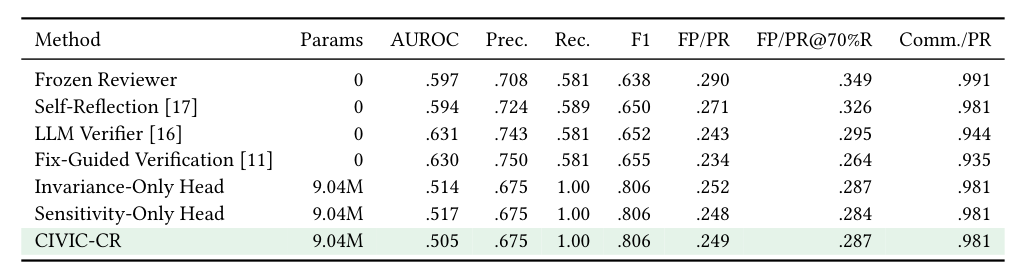
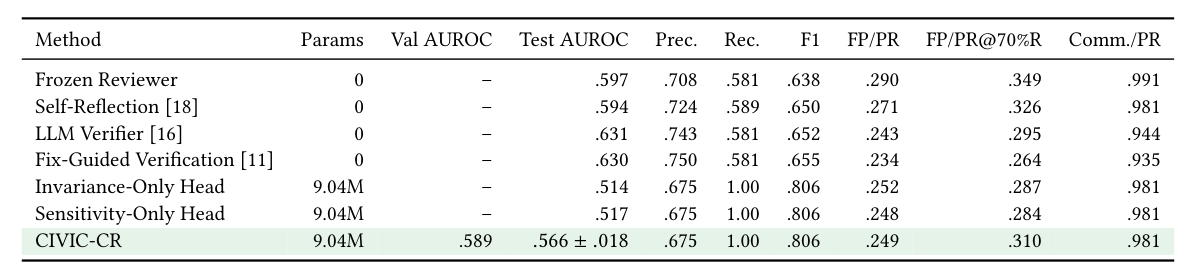
recent commit

diff --git a/docs/RESULTS.md b/docs/RESULTS.md
@@ -28,7 +28,7 @@ The same frozen repair agent receives targeted, false, or absent guidance on 121
 
 ## Finding verification
 
-The [AACR-Bench](https://arxiv.org/abs/2601.19494) subset contains 200 findings from 107 PRs. Higher AUROC, precision, recall, and F1 are better; lower false-positive burden is better. The CIVIC threshold is uncalibrated. Baselines are controlled operational comparisons inspired by [Self-Refine](https://arxiv.org/abs/2303.17651), [OpenCodeReview](https://arxiv.org/abs/2608.09290), and [fix-guided verification](https://arxiv.org/abs/2603.00539); bracketed citations in the table correspond to these manuscript references. These runs are not full reproductions of the cited systems.
+The [AACR-Bench](https://arxiv.org/abs/2601.19494) subset contains 200 findings from 107 PRs. Higher AUROC, precision, recall, and F1 are better; lower false-positive burden is better. CIVIC-CR reports validation AUROC 0.589, test AUROC 0.566 ± 0.018, and FP/PR at 70% recall 0.310. The latter is 11.2% lower than the frozen reviewer's 0.349, while test AUROC remains below the reviewer's 0.597. The CIVIC threshold is uncalibrated. Baselines are controlled operational comparisons inspired by [Self-Refine](https://arxiv.org/abs/2303.17651), [OpenCodeReview](https://arxiv.org/abs/2608.09290), and [fix-guided verification](https://arxiv.org/abs/2603.00539); bracketed citations in the table correspond to these manuscript references. These runs are not full reproductions of the cited systems.
 
 ![Real-PR finding verification table](../assets/tables/finding_filtering.png)
 
